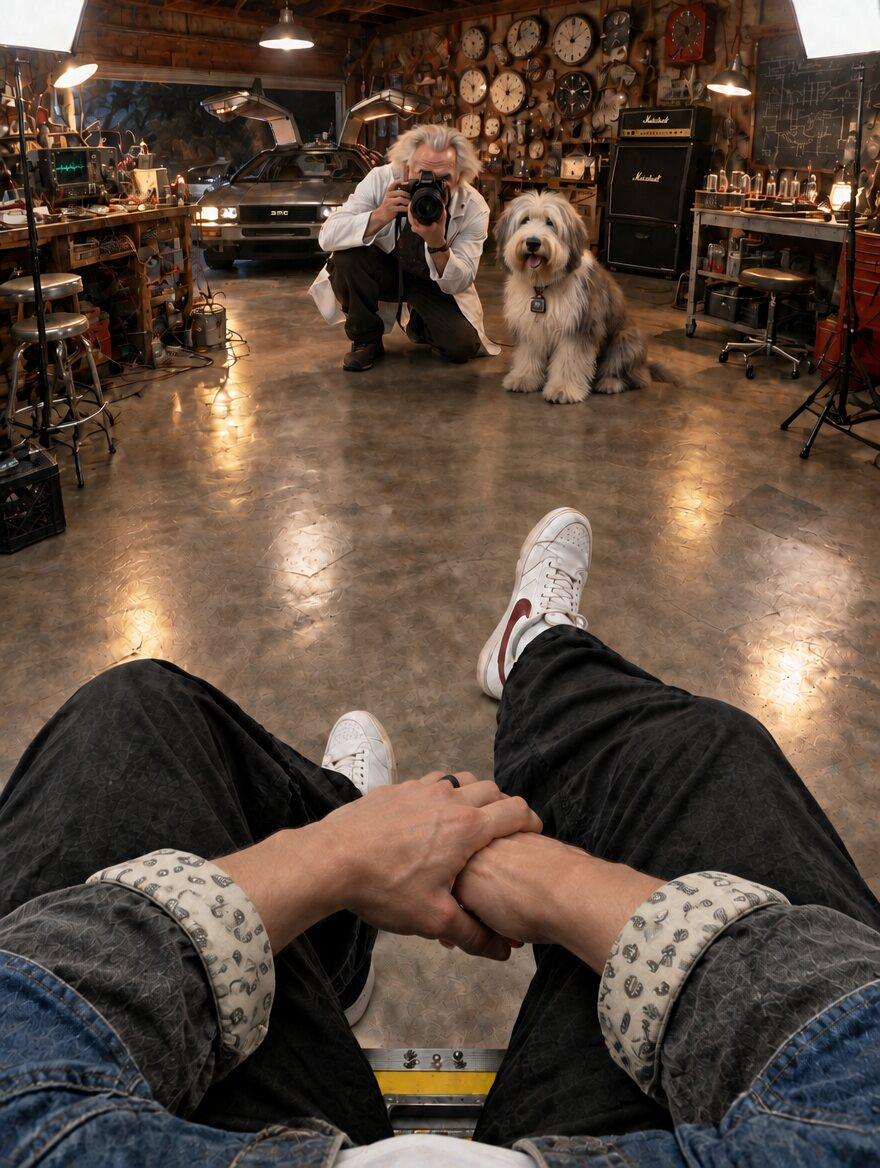
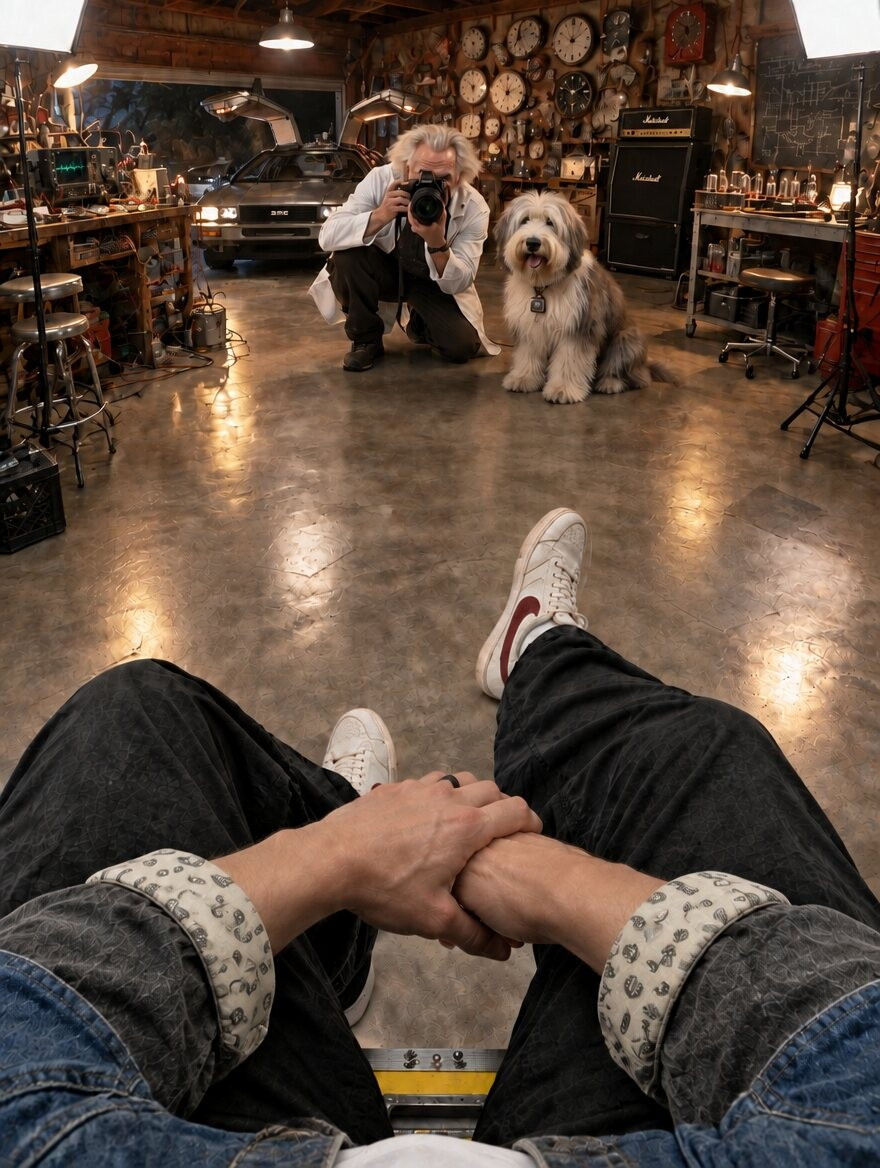
POV: match the Meta-glasses shot's Nikes to the hero's Bruins
The glasses POV wore clean white sneakers with a bright sole; the hero
and hazmat cutouts wear worn off-white Nike Bruins with a maroon swoosh
and cream sole. The shoes in pov-meta.jpg are re-rendered to match and
composited back into the original frame (feathered mask over the shoes
only), so the rest of the photo is untouched. Alt text updated, and a
stray backslash at its end removed.

Claude-Session: https://claude.ai/code/session_01W5NmLrmCfpinZRZs12n3aL

Changed region(s): [[0.5523, 0.4315, 0.675, 0.5856], [0.3682, 0.5856, 0.4602, 0.6781]]

diff --git a/index.html b/index.html
@@ -605,7 +605,7 @@
 
 <dialog class="pov" id="pov" aria-label="Point of view from Charlie's Ray-Ban Meta glasses">
   <div class="pov-frame">
-    <img src="assets/pov-meta.jpg" alt="First-person view from Charlie's glasses: his hands clasped over his knees, denim jacket sleeves rolled to the paisley lining, black wide trousers and white Nikes with red swooshes, in Doc Brown's garage lab. A wild-haired man in a white lab coat crouches to photograph him beside a shaggy sheepdog, with walls of clocks, a Marshall amp and a DeLorean, headlights on, in the back.\">
+    <img src="assets/pov-meta.jpg" alt="First-person view from Charlie's glasses: his hands clasped over his knees, denim jacket sleeves rolled to the paisley lining, black wide trousers and worn white Nike Bruins with maroon swooshes, in Doc Brown's garage lab. A wild-haired man in a white lab coat crouches to photograph him beside a shaggy sheepdog, with walls of clocks, a Marshall amp and a DeLorean, headlights on, in the back.">
     <div class="hud">
       <div class="hud-top">
         <span class="rec"><i></i><span id="rec-time">00:00</span></span>

diff --git a/v5.html b/v5.html
@@ -490,7 +490,7 @@
 
 <dialog class="pov" id="pov" aria-label="Point of view from Charlie's Ray-Ban Meta glasses">
   <div class="pov-frame">
-    <img src="assets/pov-meta.jpg" alt="First-person view from Charlie's glasses: his hands clasped over his knees, denim jacket sleeves rolled to the paisley lining, black wide trousers and white Nikes with red swooshes, in Doc Brown's garage lab. A wild-haired man in a white lab coat crouches to photograph him beside a shaggy sheepdog, with walls of clocks, a Marshall amp and a DeLorean, headlights on, in the back.\">
+    <img src="assets/pov-meta.jpg" alt="First-person view from Charlie's glasses: his hands clasped over his knees, denim jacket sleeves rolled to the paisley lining, black wide trousers and worn white Nike Bruins with maroon swooshes, in Doc Brown's garage lab. A wild-haired man in a white lab coat crouches to photograph him beside a shaggy sheepdog, with walls of clocks, a Marshall amp and a DeLorean, headlights on, in the back.">
     <div class="hud">
       <div class="hud-top">
         <span class="rec"><i></i><span id="rec-time">00:00</span></span>
